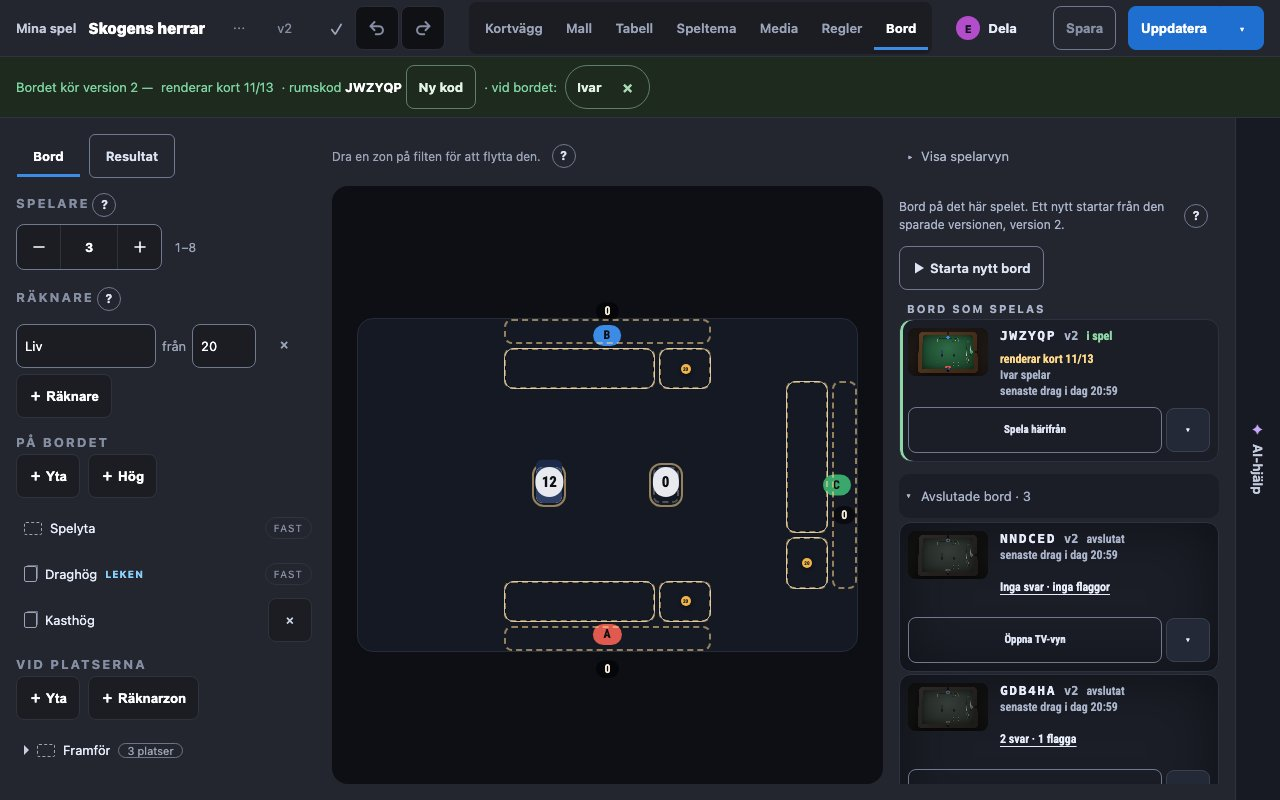
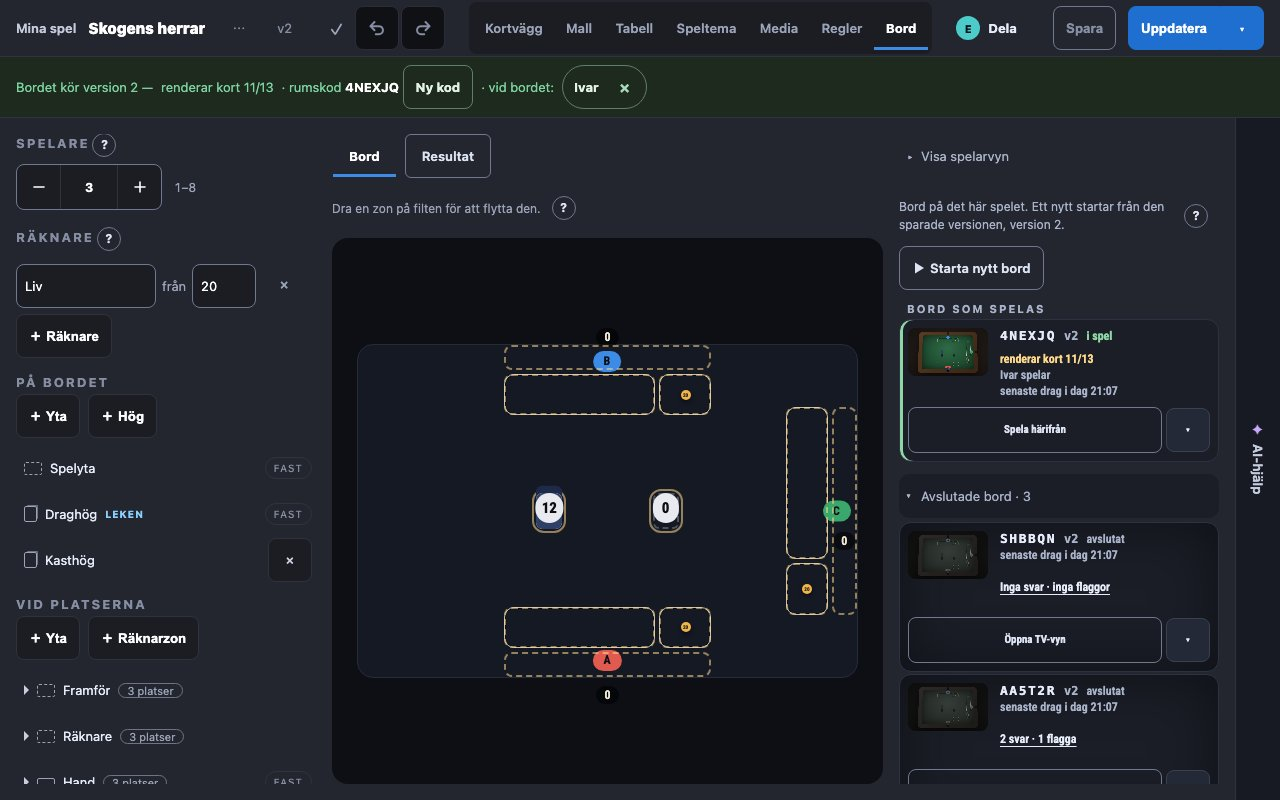
Växeln «Bord · Resultat» står över filten, inte över spelarna (#1010)
Över spelarna sköt den första spaltens två vägar per plats under kanten
vid 1024 × 640 (#711). Över mittspalten står den på samma plats i båda
vyerna; priset är en rad av filtens höjd, skrivet i L70. Växeln öppnar
Resultat på alla bord; bara en rads summarad smalnar av till ett bord.

diff --git a/packages/web/src/editor/BordTab.tsx b/packages/web/src/editor/BordTab.tsx
@@ -10,8 +10,8 @@ import { useT } from '../i18n/index.js'
 // The Bord tab (#19, #1010): the game's board and its running tables, and — a press away — what
 // its playtests said. «Resultat» is a view of this tab and not a tab of its own (beställarens val
 // 2026-10-18): the answers belong to the tables they came from, and the header keeps its seven
-// tabs and the game's whole name. The switch stands at the head of the first column in both views,
-// so it is where the hand left it, and it costs the felt no height.
+// tabs and the game's whole name. The switch stands at the head of the middle column in both
+// views, over the felt and over the results, so it is where the hand left it.
 //
 // A viewer runs no tables and reads no playtest (#524), so she has no switch: the tab is the
 // board and its tables, as it always was.
@@ -25,8 +25,10 @@ export function BordTab({ doc, client, assetBase, motifs, server, started = null
   const [table, setTable] = useState<string | null>(null)
   // A switch pressed keeps the focus: it is drawn again in the other view, in the same place.
   const [moved, setMoved] = useState(false)
+  // The switch opens Resultat on every table; only a row's line narrows it to one.
   const show = (next: View) => {
     setMoved(true)
+    setTable(null)
     setView(next)
   }
   const switcher = client.mayStartTables ? <ViewSwitch view={view} onView={show} focus={moved} /> : null

diff --git a/packages/web/src/editor/PlaytestResults.tsx b/packages/web/src/editor/PlaytestResults.tsx
@@ -24,7 +24,7 @@ export type PlaytestResultsProps = {
   // The table the view was opened for — from an ended table's row — or null for all of them.
   table: string | null
   onTable(id: string | null): void
-  // The «Bord · Resultat» switch, at the head of the first column as it is in the Bord view.
+  // The «Bord · Resultat» switch, at the head of the main column as it is over the Bord view's felt.
   switcher: ReactNode
 }
 
@@ -70,7 +70,6 @@ export function PlaytestResults({ client, table, onTable, switcher }: PlaytestRe
 
   const side = (
     <div className="byd-results-side">
-      {switcher}
       {data && data.versions.length > 0 && (
         <VersionList
           versions={data.versions}
@@ -93,6 +92,7 @@ export function PlaytestResults({ client, table, onTable, switcher }: PlaytestRe
       <div className="byd-results" data-results>
         {side}
         <div className="byd-results-main">
+          {switcher}
           {failed ? <p role="alert">{failed}</p> : <p className="byd-results-quiet">{t('results.loading')}</p>}
         </div>
       </div>
@@ -102,6 +102,7 @@ export function PlaytestResults({ client, table, onTable, switcher }: PlaytestRe
     <div className="byd-results" data-results>
       {side}
       <div className="byd-results-main">
+        {switcher}
         {chosen === null ? (
           <p className="byd-results-empty">
             {t('results.empty')}

diff --git a/packages/web/src/editor/SetupEditor.tsx b/packages/web/src/editor/SetupEditor.tsx
@@ -47,8 +47,10 @@ export type SetupEditorProps = {
   // list of tables the game is being played at. The setup owns the tab's layout — it is the one
   // that knows there are three columns — so the list is handed to it rather than dropped after it.
   beside?: ReactNode
-  // What stands at the head of the first column, over the seats (#1010): the Bord tab's switch to
-  // its Resultat view, which stands in the same place in both views.
+  // What stands over the felt, at the head of the middle column (#1010): the Bord tab's switch to
+  // its Resultat view, which stands in the same place in both views. Not over the first column,
+  // whose ways to add a zone must all show at 1024 × 640 (#711), and not in the row over the
+  // felt, which a chosen zone's four fields fill at 1024 (L50).
   lead?: ReactNode
 }
 
@@ -269,7 +271,6 @@ export function SetupEditor({ doc, client, assetBase, motifs, beside, lead }: Se
       }}
     >
       <div className="byd-setup-side">
-        {lead}
         <SeatsPanel client={client} setup={setup} />
         <ZoneList
           setup={setup}
@@ -304,6 +305,7 @@ export function SetupEditor({ doc, client, assetBase, motifs, beside, lead }: Se
         />
       </div>
       <div className="byd-setup-canvas">
+        {lead}
         <div className="byd-setup-said" data-setup-said>
           {undoable && (
             <span className="byd-setup-undo" role="status">

diff --git a/packages/web/src/editor/editor.css b/packages/web/src/editor/editor.css
@@ -4343,9 +4343,8 @@ label:is(.byd-ai-new, .byd-ai-change) { cursor: pointer; }
 .byd-data tr[data-change='changed'][data-proposed] { --byd-data-tint: rgba(201, 167, 255, 0.08); }
 
 /* «Bord · Resultat» (#1010, beställarens val 2026-10-18): the Bord tab's two views, switched at the
-   head of its first column, where it stands in both views. Over the seats and not over the felt,
-   so it costs the felt no height. */
-.byd-bord-switch { display: flex; gap: var(--byd-s2); }
+   head of the middle column, where it stands in both views. */
+.byd-bord-switch { flex: none; display: flex; gap: var(--byd-s2); }
 .byd-bord-switch .byd-choice { min-height: var(--byd-tap); padding: 0 var(--byd-s4); font-size: 13px; }
 
 /* Resultat: the versions in the first column, everything a version was told beside it. The

diff --git a/DESIGN-BESLUT.md b/DESIGN-BESLUT.md
@@ -6896,7 +6896,10 @@ Enkäten (G3) samlades in och flaggorna stod i loggen, men ingen yta i editorn l
 Tre platser prototypades i det byggda appen med riktiga bord, svar och flaggor: i bordets rad (A), en egen flik «Resultat» (B) och i historiken (C).
 
 **B, med A:s rad, men som en vy i Bord-fliken och inte som en åttonde flik.**
-En växel «Bord · Resultat» står överst i flikens första spalt, över spelarna, och på samma plats i båda vyerna; den tar ingen höjd från filten, och huvudet behåller sju flikar och spelets hela namn vid 1280.
+En växel «Bord · Resultat» står överst i flikens mittspalt, över filten, och på samma plats i båda vyerna; huvudet behåller sju flikar och spelets hela namn vid 1280.
+Priset är en rad, 52 px, av filtens höjd.
+Den står inte över spelarna: första spaltens fyra vägar att lägga till en zon ska synas utan rullning vid 1024 × 640 (L66, #711), och växeln sköt de två per plats under kanten.
+Den står inte i raden över filten heller, där en vald zons fyra fält fyller mittspaltens 420 px vid 1024 (L50).
 Svaren hör till borden de kom från, och därför till Bord.
 En betraktare, som inte startar bord och inte läser playtestet (#524), har ingen växel.
 
